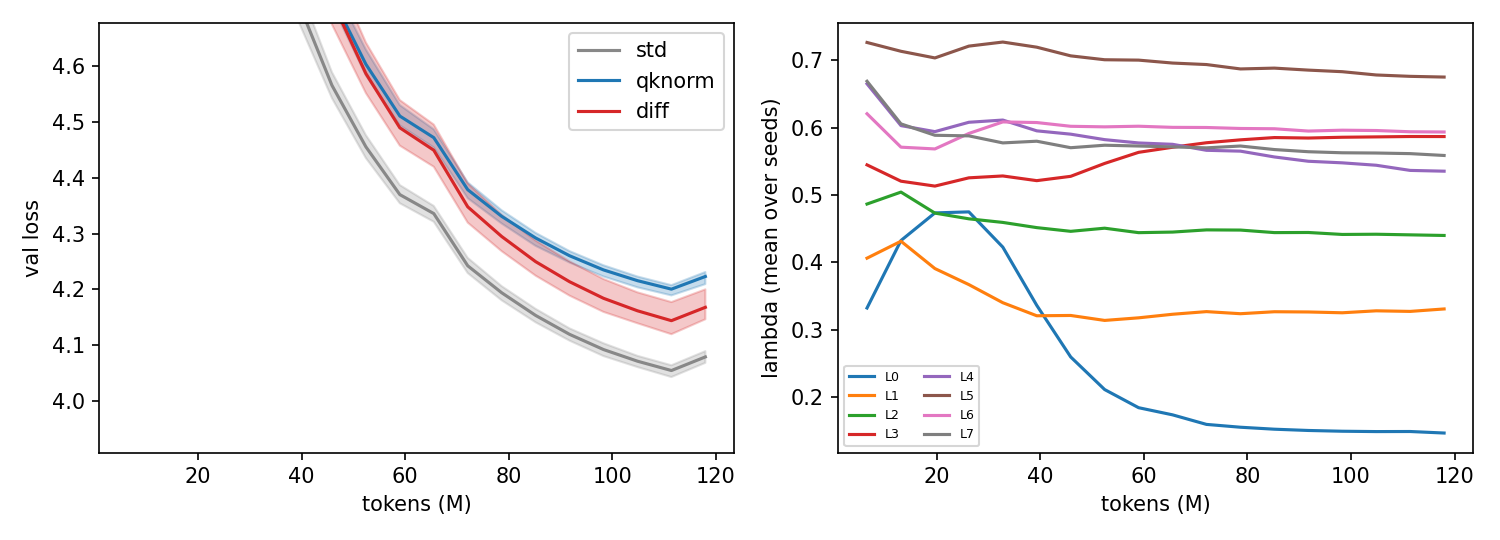
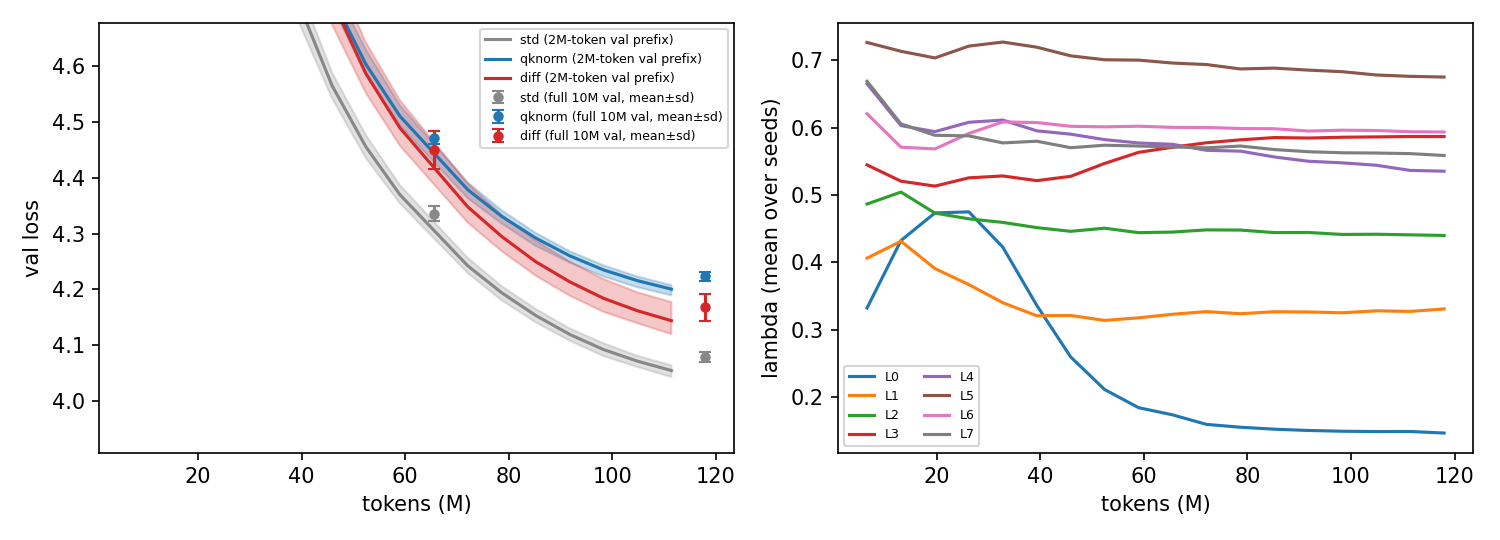
Figure: do not join 2M-prefix and full-val losses in one line

Changed region(s): [[0.2453, 0.0296, 0.4907, 0.4741], [0.4293, 0.5037, 0.4907, 0.6222], [0.4293, 0.6519, 0.4907, 0.7111]]

diff --git a/analysis/analyze.py b/analysis/analyze.py
@@ -177,19 +177,23 @@ def figures(by):
     fig, ax = plt.subplots(1, 2, figsize=(10, 3.6))
     col = dict(std="#888888", qknorm="#1f77b4", diff="#d62728")
     for a in ARMS:
-        curves = []
-        for r in by[a]:
-            pts = [(x["tokens"], x.get("val_loss_full", x.get("val_loss_2m"))) for x in r["log"]]
-            curves.append(pts)
-        n = min(len(c) for c in curves)
-        t = np.array([p[0] for p in curves[0][:n]]) / 1e6
-        y = np.array([[p[1] for p in c[:n]] for c in curves])
-        ax[0].plot(t, y.mean(0), color=col[a], label=a)
-        ax[0].fill_between(t, y.min(0), y.max(0), color=col[a], alpha=0.25)
+        # two different val sets are logged (2M-token prefix at most steps, full 10M set at val_full_every
+        # and the last step); never join them in one line
+        for key, style in (("val_loss_2m", "line"), ("val_loss_full", "marker")):
+            curves = [[(x["tokens"], x[key]) for x in r["log"] if key in x] for r in by[a]]
+            n = min(len(c) for c in curves)
+            t = np.array([p[0] for p in curves[0][:n]]) / 1e6
+            y = np.array([[p[1] for p in c[:n]] for c in curves])
+            if style == "line":
+                ax[0].plot(t, y.mean(0), color=col[a], label=f"{a} (2M-token val prefix)")
+                ax[0].fill_between(t, y.min(0), y.max(0), color=col[a], alpha=0.25)
+            else:
+                ax[0].errorbar(t, y.mean(0), yerr=y.std(0, ddof=1), fmt="o", ms=4, color=col[a], capsize=3,
+                               label=f"{a} (full 10M val, mean±sd)")
     ax[0].set_xlabel("tokens (M)")
     ax[0].set_ylabel("val loss")
     ax[0].set_ylim(None, np.nanmean([r["final_val"] for r in by["std"]]) + 0.6)
-    ax[0].legend()
+    ax[0].legend(fontsize=6)
     lam = np.array([[x["lambdas"] for x in r["log"]] for r in by["diff"]])  # seeds, logs, layers
     t = np.array([x["tokens"] for x in by["diff"][0]["log"]]) / 1e6
     for li in range(lam.shape[2]):
